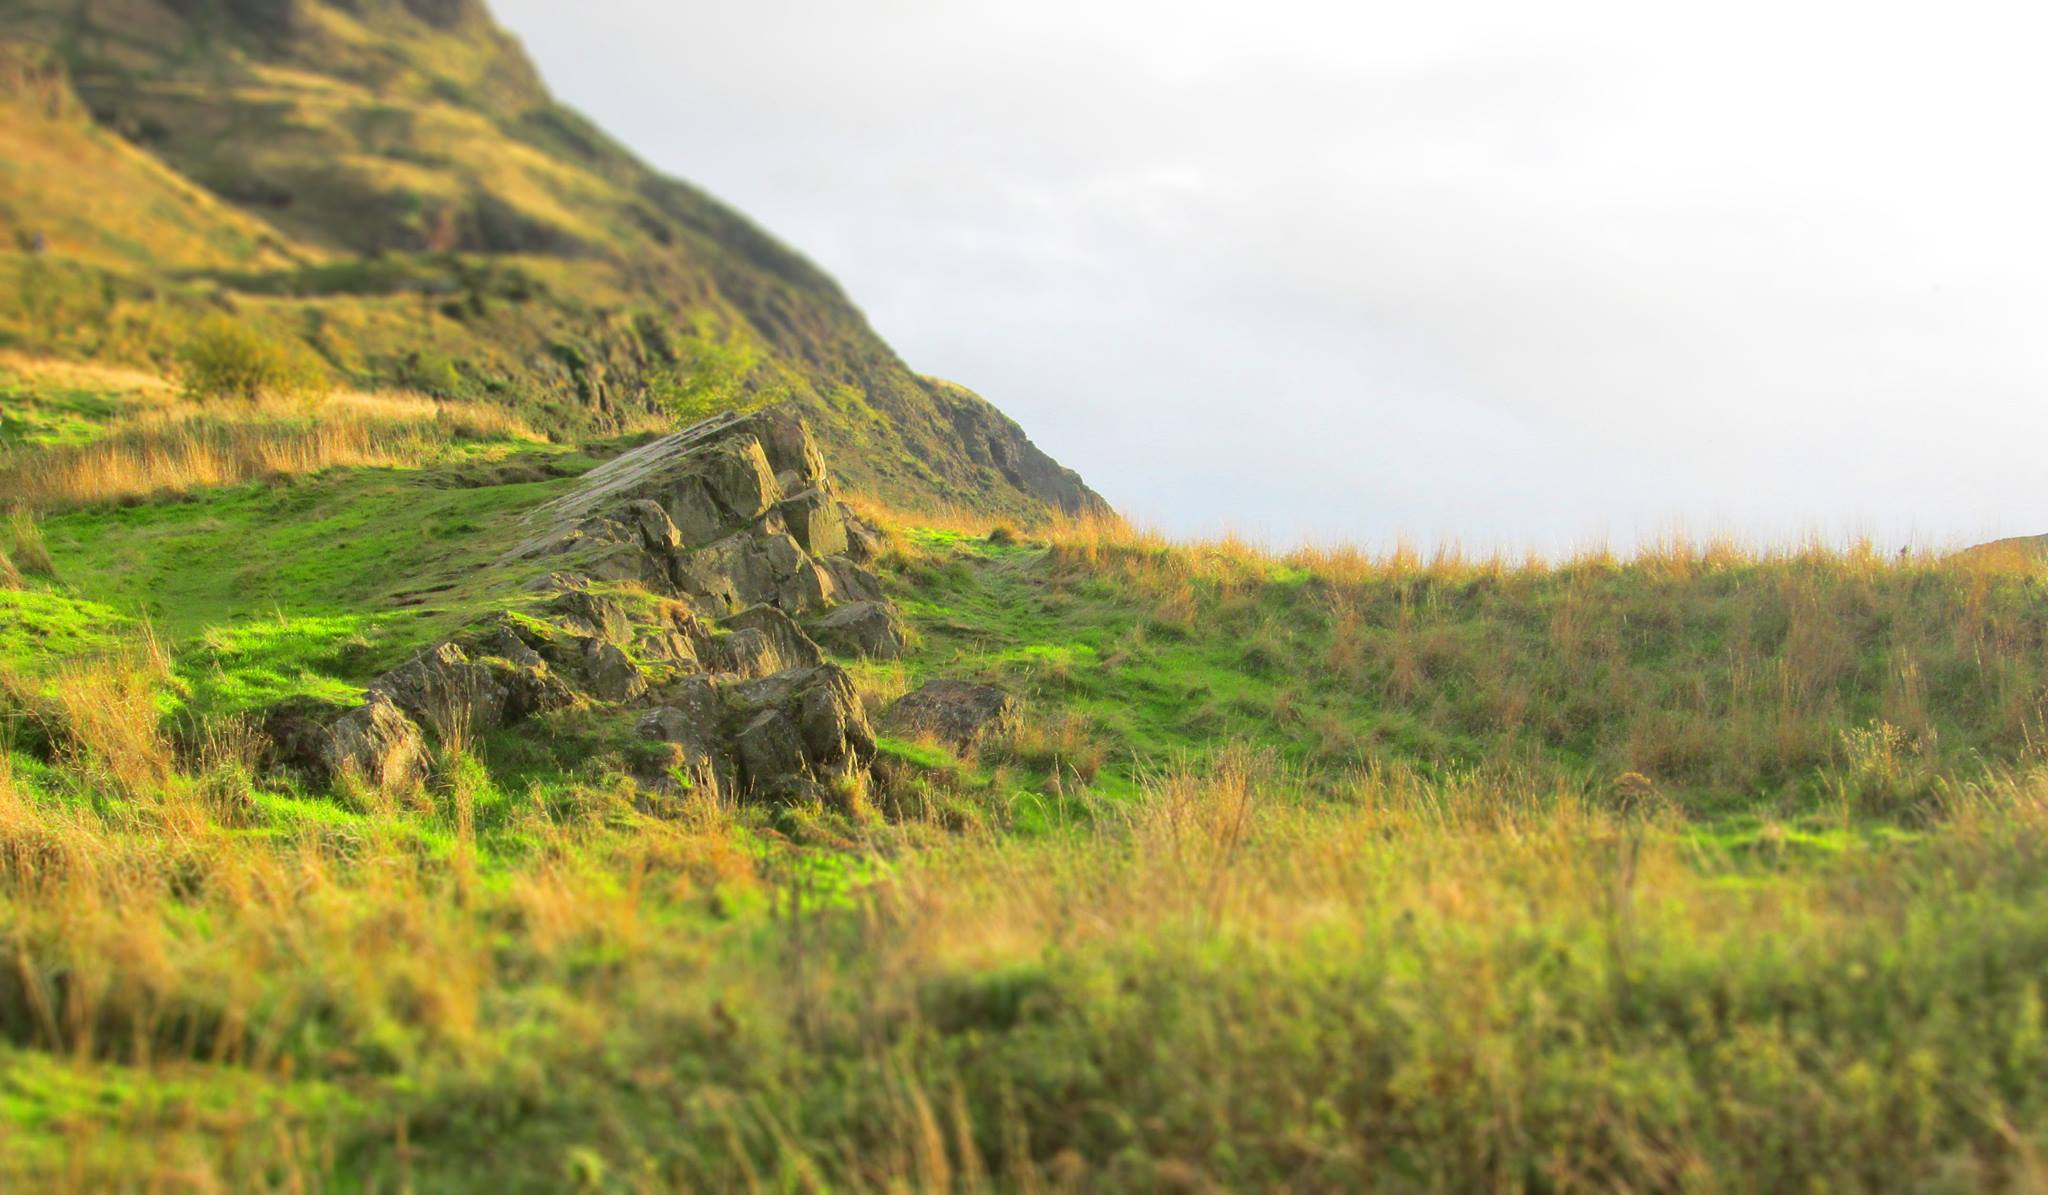
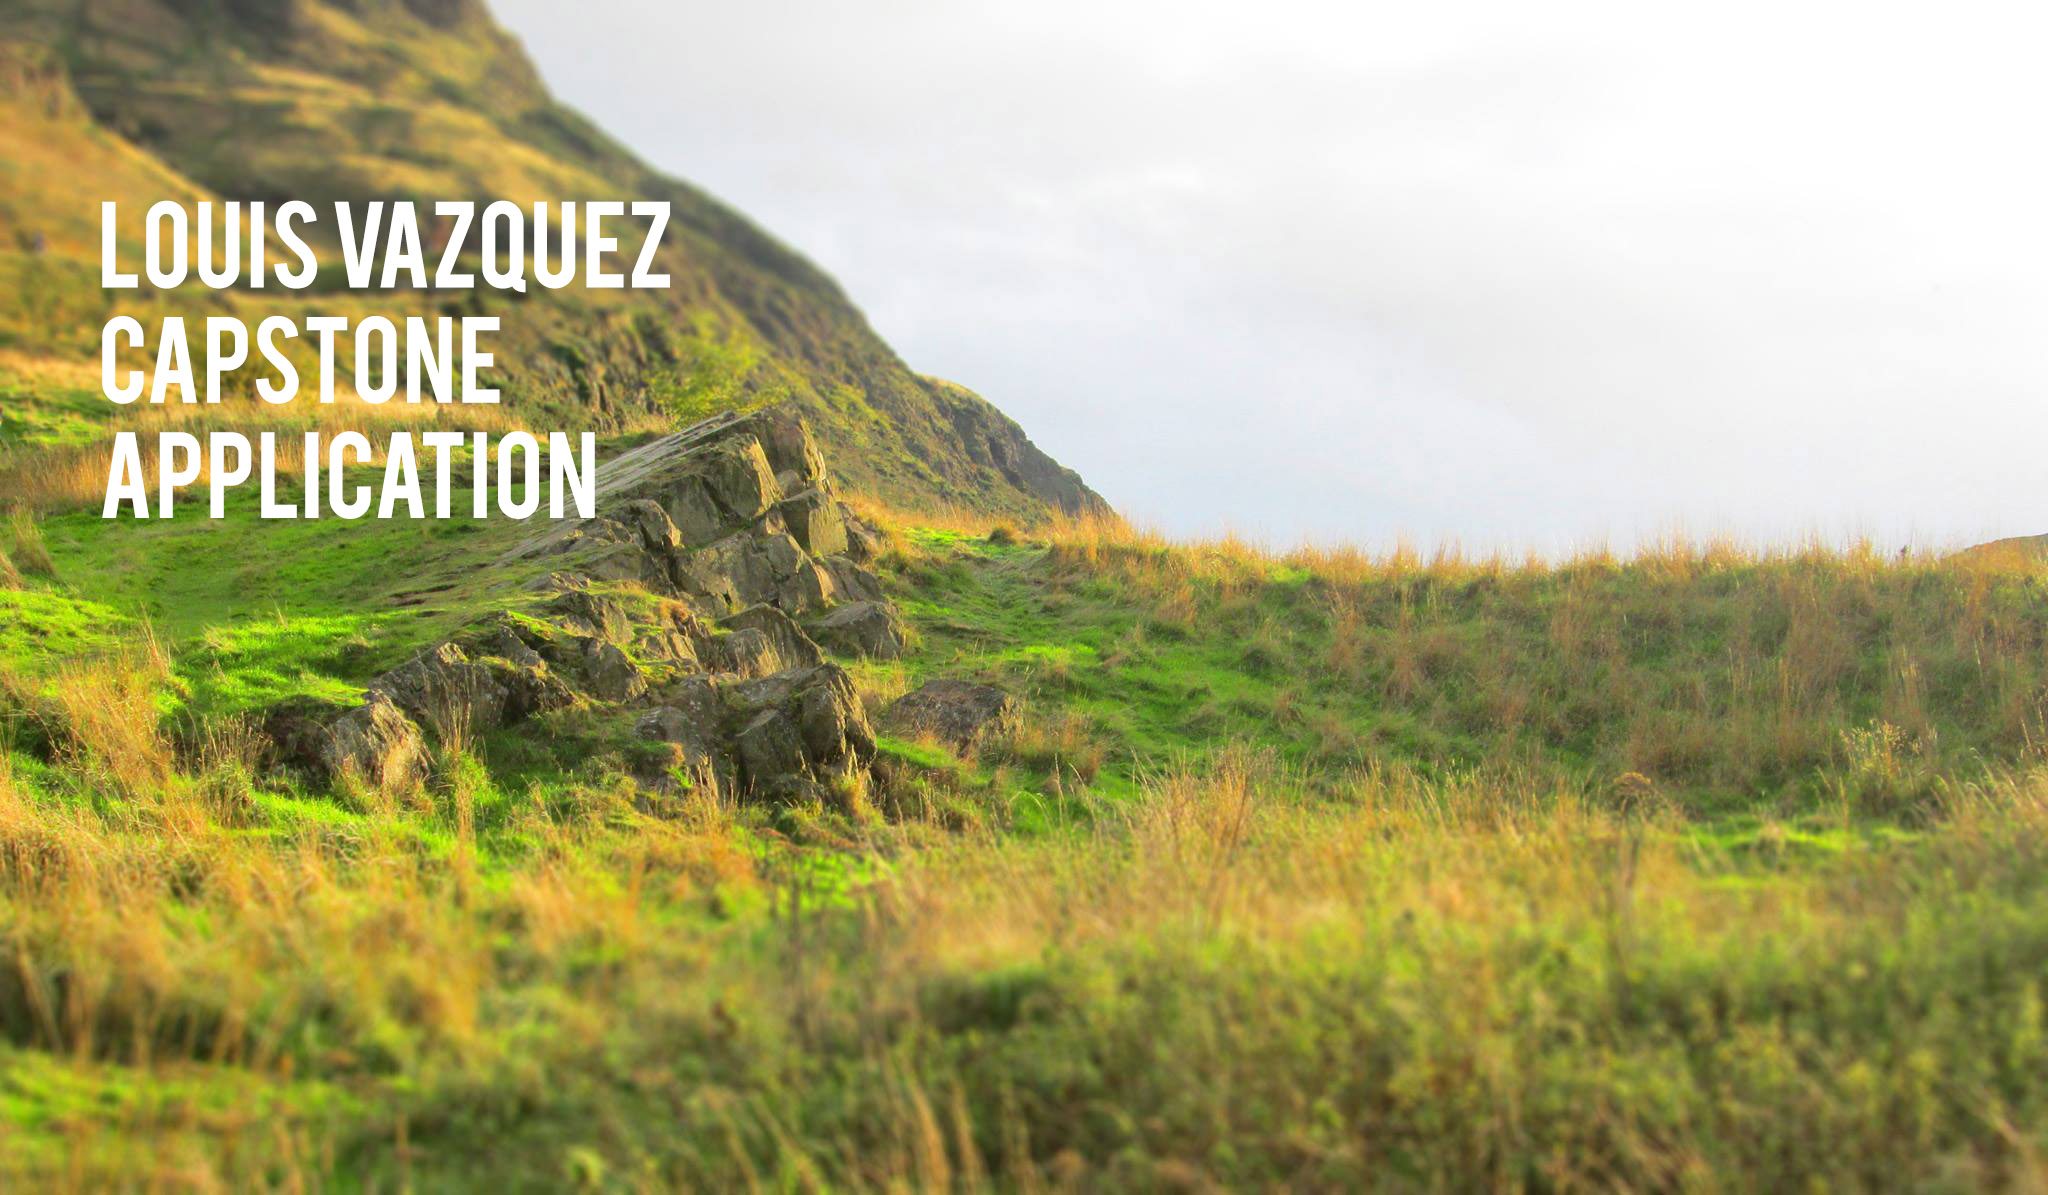
parallax

Changed region(s): [[0.0312, 0.1548, 0.3438, 0.4335]]

diff --git a/app/assets/stylesheets/user.css.scss b/app/assets/stylesheets/user.css.scss
@@ -6,19 +6,17 @@
 @import "bootstrap";
 
 #username {
-	margin-top:80px;
 	float: left;
-	width: 400px;
-	border-right-color: #cccccc;
-	border-right:solid 1px;
-	margin-left:20px;
-
+	width: 430px;
+	background-color: #f2f2f0;
+	right:5px;
 }
+
+
 #usersecondinfo {
-	margin-left:20px;
-	margin-top:80px;
 	float:left;
-	width:500px;
+	width:430px;
+	background-color: #f2f2f0;
 	
 }
 
@@ -29,6 +27,10 @@
 	
 } 
 
+#main-container {
+	margin-top:80px;
+	margin-left:20px;
+}
 
  #userblip {
 	float:left;
@@ -38,8 +40,8 @@
 	margin-bottom:5px;
 	margin-left:5px;
 	margin-right:5px;
-	-webkit-border-radius: 3px;
-	border-radius: 3px;
+	-webkit-border-radius: 1px;
+	border-radius: 1px;
 
 	
 }
@@ -70,4 +72,83 @@
 	height:60px;
 	padding-top:10px;
 	padding-left:15px;
+}
+
+#home { 
+  background: url(piccy1.jpg) 50% 0 repeat fixed; min-height: 700px; 
+  height: 800px; 
+  margin: 0 auto; 
+  width: 100%; 
+  max-width: 1920px; 
+  position: relative; 
+}
+ 
+#home article { 
+  height: 458px; 
+  position: absolute; 
+  text-align: center; 
+  top: 150px; 
+  width: 100%; 
+  font-size: 450%
+}
+ 
+#about { 
+  background: url(about-bg.jpg) 50% 0 repeat fixed; min-height: 600px; 
+  height: 500px; 
+  margin: 0 auto; 
+  width: 100%; 
+  max-width: 1920px; 
+  position: relative; 
+  -webkit-box-shadow: 0 0 50px rgba(0,0,0,0.8);
+  box-shadow: 0 0 50px rgba(0,0,0,0.8);
+}
+ 
+#about article { 
+  height: 458px; 
+  position: absolute; 
+  text-align: center; 
+  top: 150px; 
+  width: 100%; 
+}
+
+#example { 
+  background: url(tibet.jpg) 50% 0 repeat fixed; min-height: 700px; 
+  height: 600px; 
+  margin: 0 auto; 
+  width: 100%; 
+  max-width: 1920px; 
+  position: relative; 
+}
+
+#example article { 
+  height: 458px; 
+  position: absolute; 
+  text-align: center; 
+  top: 150px; 
+  width: 100%; 
+  
+  font-size: 250%
+}
+
+#bottomquote { 
+  background-color: #ffcc00;
+  height: 600px; 
+  margin: 0 auto; 
+  width: 100%; 
+  max-width: 1920px; 
+  position: relative; 
+  -webkit-box-shadow: 0 0 50px rgba(0,0,0,0.8);
+  box-shadow: 0 0 50px rgba(0,0,0,0.8);
+}
+
+#bottomquote article { 
+  height: 458px; 
+  position: absolute; 
+  text-align: center; 
+  top: 150px; 
+  padding-left: 15x;
+  right: 15px;
+  width: 100%;
+  
+  font-size: 150%
 }

diff --git a/app/assets/javascripts/user.js b/app/assets/javascripts/user.js
@@ -1,2 +1,18 @@
 // Place all the behaviors and hooks related to the matching controller here.
 // All this logic will automatically be available in application.js.
+
+$(document).ready(function(){
+    $('section[data-type="background"]').each(function(){
+        var $bgobj = $(this); // assigning the object
+    
+        $(window).scroll(function() {
+            var yPos = -($window.scrollTop() / $bgobj.data('speed')); 
+            
+            // Put together our final background position
+            var coords = '50% '+ yPos + 'px';
+
+            // Move the background
+            $bgobj.css({ backgroundPosition: coords });
+        }); 
+    });    
+});

diff --git a/app/assets/stylesheets/application.css b/app/assets/stylesheets/application.css
@@ -22,6 +22,7 @@
 	width:100%;
 	background-color: #02376d;
 	padding-top:5px;
+	padding-left: 5px;
 	height: 45px;
 	color: #fff;
 }

diff --git a/app/models/user.rb b/app/models/user.rb
@@ -14,7 +14,7 @@ class User < ActiveRecord::Base
 	has_attached_file :avatar, :styles => { :medium => "300x250>", :small  => "150x100", :thumb => "100x100>" }, :default_url => "/images/default_small_avatar.png"
   validates_attachment_content_type :avatar, :content_type => /\Aimage\/.*\Z/
  	
-  has_attached_file :photo, :styles => { :medium => "500x300>", :small  => "150x100", :thumb => "100x100>" }, :default_url => "/images/default_small_avatar.png"
+  has_attached_file :photo, :styles => { :medium => "400x300>", :small  => "150x100", :thumb => "100x100>" }, :default_url => "/images/default_small_avatar.png"
   validates_attachment_content_type :photo, :content_type => /\Aimage\/.*\Z/
 
 	validates :name, presence: true, length: { maximum: 25 }

diff --git a/app/controllers/user_controller.rb b/app/controllers/user_controller.rb
@@ -7,9 +7,9 @@ class UserController < ApplicationController
      
   end
 
-  #def map
+  def map
     # @users = User.all
-  #end
+  end
 
   def demo
     @users = User.all

diff --git a/app/controllers/locations_controller.rb b/app/controllers/locations_controller.rb
@@ -9,6 +9,7 @@ class LocationsController < ApplicationController
     @locations = Location.all
   end
 
+  
   # GET /locations/1
   # GET /locations/1.json
   def show
